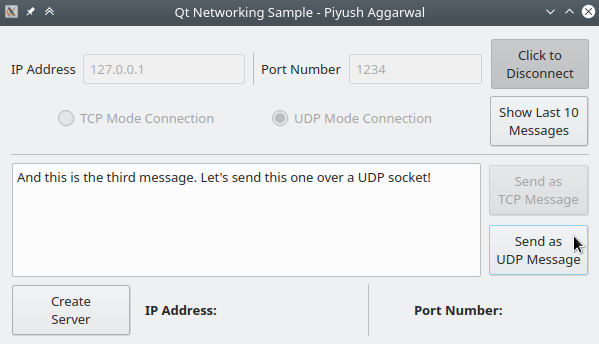
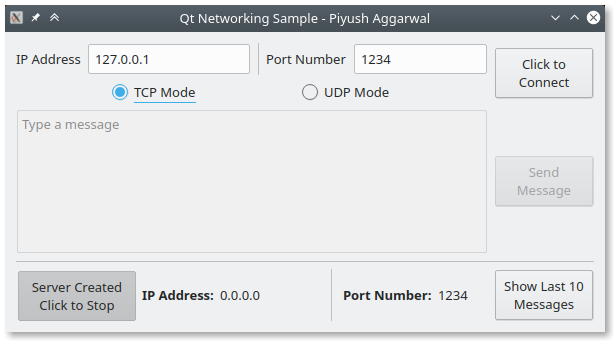
update documentation

diff --git a/README.md b/README.md
@@ -6,13 +6,16 @@ A Qt project that supports listening to messages over socket.
 
 ## Features
 
-- The IP Address and Port Number are runtime input from the user.
-- You can view the last 10 messages in a QMessageBox.
-- Supports both TCP and UDP socket which are selectable by the user from the GUI itself.
-- Also contains functionality to create a server.
-    - The message to send is an input from a textEdit box.
+- The IP Address and Port Number are runtime input from the user. Send messages to any IP-port combination.
+    - The message to send is an input from a `textEdit` box.
+- Supports both TCP and UDP communications.
+
+- Also contains functionality to create a Server.
+    - Listens to both UDP messages as well as TCP message simultaneously. (priority to TCP - keeps reading while `bytesAvailable`)
+    - You can view the last 10 messages sent to the server in a `QMessageBox`.
 
 - UI/UX is bae.
+
 - WYSIWYG - check out the Gallery to see what it does. 
 
 ## How To Run
@@ -23,7 +26,7 @@ A Qt project that supports listening to messages over socket.
 ## TODO
 - The UDP connection happens over a single QUdpSocket right now. Need to look into improving the implementation with two sockets instead of just one.
 
-## Gallery
+## Gallery (to be updated)
 
 ![1](gallery/1.png)
 
@@ -38,5 +41,7 @@ A Qt project that supports listening to messages over socket.
 ![1](gallery/6.png)
 
 ![1](gallery/7.png)
+
+![1](gallery/8.png)
 
 
